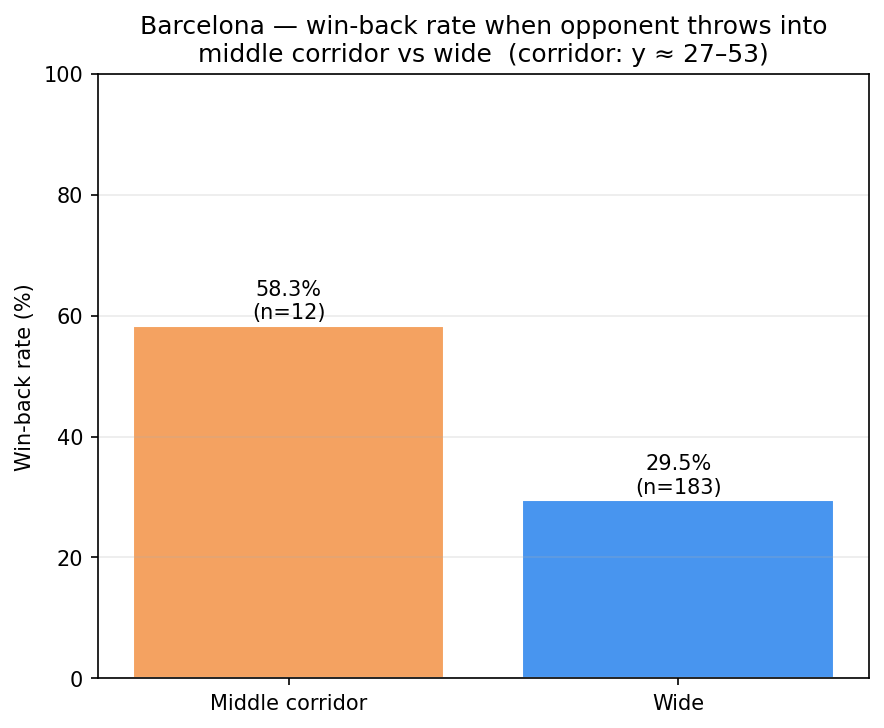
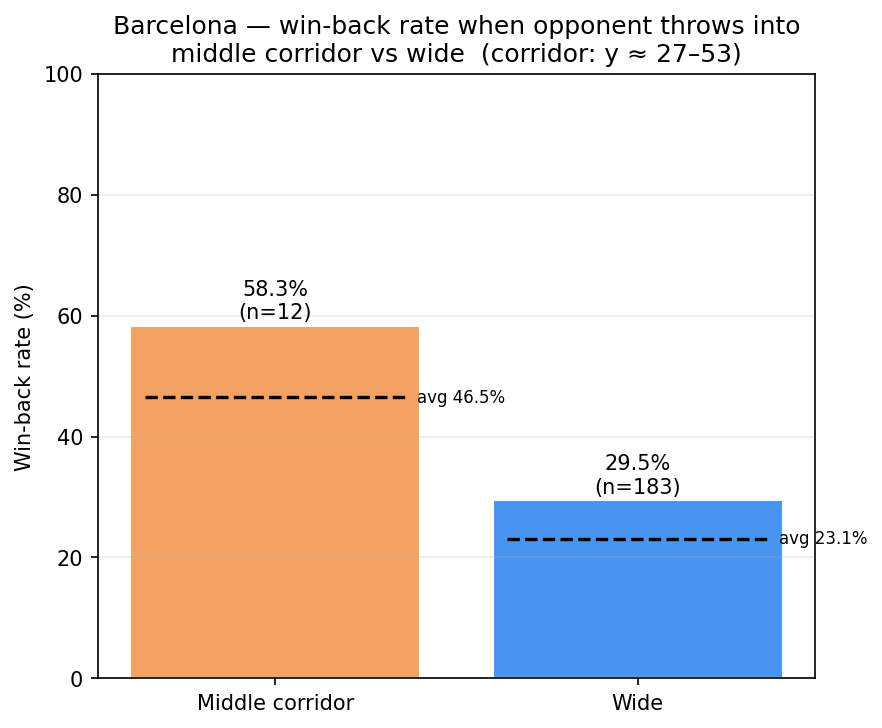
Changed/added some plots on def throw ins

diff --git a/src/throwins/def_throwins/throwins_defense.py b/src/throwins/def_throwins/throwins_defense.py
@@ -153,6 +153,14 @@ def plot_defense_scatter(df: pd.DataFrame, save: bool = True) -> None:
     for ax, zone in zip(axes, ZONE_ORDER):
         zone_df = df[df["zone"] == zone]
 
+        # KDE heatmap of throw-in landing points (background layer)
+        if len(zone_df) >= 5:
+            pitch.kdeplot(
+                zone_df["end_x"], zone_df["end_y"], ax=ax,
+                cmap="Blues", fill=True, alpha=0.45,
+                levels=10, thresh=0.05, zorder=1,
+            )
+
         for _, r in zone_df.iterrows():
             color = POSSESSION_COLORS.get(r["barca_won"], "#adb5bd")
             ax.annotate(
@@ -200,6 +208,243 @@ def plot_defense_scatter(df: pd.DataFrame, save: bool = True) -> None:
     if save:
         THROWINS_ASSETS_DIR.mkdir(parents=True, exist_ok=True)
         out = THROWINS_ASSETS_DIR / "throwins_defense_scatter.png"
+        fig.savefig(out, dpi=150, bbox_inches="tight")
+        print(f"Saved {out}")
+    plt.show()
+
+
+def plot_normalized_landing_heatmap(df: pd.DataFrame, save: bool = True) -> None:
+    """Normalized throw-in landing heatmap with win-back arrows.
+
+    Coordinates relative to throw-in origin:
+      dx > 0  = toward opponent's goal (away from Barcelona's goal)
+      dy > 0  = into the pitch (always, regardless of which touchline)
+    """
+    try:
+        from scipy.ndimage import gaussian_filter
+        _has_scipy = True
+    except ImportError:
+        _has_scipy = False
+
+    import numpy as np
+
+    df = df.dropna(subset=["x", "y", "end_x", "end_y"]).copy()
+    df["dx"] = df["end_x"] - df["x"]
+    df["dy"] = np.where(df["y"] < 40, df["end_y"] - df["y"], df["y"] - df["end_y"])
+
+    _DX     = (-50, 70)
+    _DY     = (-5,  40)
+    _N_BINS = 40
+
+    def _make_heatmap(sub: pd.DataFrame) -> np.ndarray:
+        if len(sub) < 3:
+            return np.zeros((_N_BINS, _N_BINS))
+        xs = np.clip(sub["dx"].values, *_DX)
+        ys = np.clip(sub["dy"].values, *_DY)
+        h, _, _ = np.histogram2d(xs, ys, bins=_N_BINS, range=[_DX, _DY])
+        if _has_scipy:
+            h = gaussian_filter(h, sigma=1.5)
+        h = h / h.max() if h.max() > 0 else h
+        return h.T
+
+    fig, axes = plt.subplots(1, 3, figsize=(18, 6))
+    fig.set_facecolor("white")
+
+    for ax, zone in zip(axes, ZONE_ORDER):
+        zone_df = df[df["zone"] == zone]
+
+        ax.imshow(
+            _make_heatmap(zone_df),
+            origin="lower", extent=[*_DX, *_DY],
+            aspect="auto", cmap="Blues",
+            vmin=0, vmax=1, alpha=0.85,
+        )
+
+        for _, r in zone_df.iterrows():
+            color = POSSESSION_COLORS.get(r["barca_won"], "#adb5bd")
+            ax.annotate(
+                "",
+                xy=(r["dx"], r["dy"]),
+                xytext=(0, 0),
+                arrowprops=dict(
+                    arrowstyle="-|>", color=color,
+                    lw=0.8, alpha=0.55, mutation_scale=8,
+                ),
+                zorder=3,
+            )
+
+        for won, label in [(True, "Barça won ball"), (False, "Opp kept ball")]:
+            sub = zone_df[zone_df["barca_won"] == won]
+            if sub.empty:
+                continue
+            ax.scatter(
+                sub["dx"], sub["dy"],
+                color=POSSESSION_COLORS[won], edgecolors="white",
+                linewidths=0.4, s=35, label=label, zorder=4, alpha=0.8,
+            )
+
+        ax.plot(0, 0, "o", color="cyan", markersize=9, zorder=6)
+        ax.axhline(0, color="white", lw=1.5, alpha=0.7)
+        ax.axvline(0, color="white", lw=1.0, alpha=0.4, linestyle="--")
+
+        n_tot = len(zone_df)
+        n_won = int((zone_df["barca_won"] == True).sum())
+        pct   = f"{n_won / n_tot * 100:.0f}%" if n_tot else "—"
+        ax.set_title(
+            f"{zone} zone  (N={n_tot})  ·  {pct} win-back",
+            fontsize=10, pad=8, color="black",
+        )
+        ax.set_facecolor("#1a1a2e")
+        ax.set_xlim(*_DX)
+        ax.set_ylim(*_DY)
+        ax.set_xlabel(
+            "← toward Barça goal  |  toward Opp goal →\n(StatsBomb units, relative to throw-in)",
+            fontsize=8,
+        )
+        ax.legend(loc="upper right", fontsize=8, framealpha=0.7)
+
+    axes[0].set_ylabel("Into pitch →  (StatsBomb units)", fontsize=8)
+
+    fig.suptitle(
+        "Opponent throw-in landing points — normalised to throw-in origin\n"
+        "Heatmap = landing density  ·  Green = Barça won ball back  "
+        "·  Red = opponent kept possession  ·  Cyan dot = throw-in origin",
+        fontsize=12, y=1.02, color="black",
+    )
+    plt.tight_layout()
+
+    if save:
+        THROWINS_ASSETS_DIR.mkdir(parents=True, exist_ok=True)
+        out = THROWINS_ASSETS_DIR / "throwins_defense_scatter_normalized.png"
+        fig.savefig(out, dpi=150, bbox_inches="tight")
+        print(f"Saved {out}")
+    plt.show()
+
+
+def plot_combined_defense_heatmap(
+    df: pd.DataFrame,
+    positions: dict,
+    save: bool = True,
+) -> None:
+    """Barcelona defensive shape overlaid with opponent throw-in landing points.
+
+    Green heatmap  = Barcelona player density at throw-in moment (SkillCorner, metres).
+    Blue heatmap   = opponent throw-in landing point density (StatsBomb → metres).
+    Arrows         = individual throw-ins coloured by win-back outcome.
+    All coordinates normalised to throw-in origin = (0, 0).
+
+    StatsBomb → metres: x × (105/120), y × (68/80).
+    """
+    try:
+        from scipy.ndimage import gaussian_filter
+        _has_scipy = True
+    except ImportError:
+        _has_scipy = False
+
+    import numpy as np
+
+    _SB_X_TO_M = 105 / 120
+    _SB_Y_TO_M = 68  / 80
+    _DX    = (-50, 50)
+    _DY    = (-2,  70)
+    _BINS  = 40
+
+    def _heatmap(xs, ys):
+        if len(xs) < 3:
+            return np.zeros((_BINS, _BINS))
+        h, _, _ = np.histogram2d(
+            np.clip(xs, *_DX), np.clip(ys, *_DY),
+            bins=_BINS, range=[_DX, _DY],
+        )
+        if _has_scipy:
+            h = gaussian_filter(h, sigma=1.5)
+        h = h / h.max() if h.max() > 0 else h
+        return h.T
+
+    df = df.dropna(subset=["x", "y", "end_x", "end_y"]).copy()
+    df["dx_m"] = (df["end_x"] - df["x"]) * _SB_X_TO_M
+    df["dy_m"] = np.where(
+        df["y"] < 40,
+        (df["end_y"] - df["y"]) * _SB_Y_TO_M,
+        (df["y"] - df["end_y"]) * _SB_Y_TO_M,
+    )
+
+    fig, axes = plt.subplots(1, 3, figsize=(18, 6))
+    fig.set_facecolor("white")
+
+    for ax, zone in zip(axes, ZONE_ORDER):
+        zone_df   = df[df["zone"] == zone]
+        barca_pts = positions.get(zone, {}).get("barca", [])
+
+        # Barcelona player positioning (SkillCorner, already in metres)
+        if barca_pts:
+            bx = np.array([p[0] for p in barca_pts])
+            by = np.array([p[1] for p in barca_pts])
+            ax.imshow(
+                _heatmap(bx, by),
+                origin="lower", extent=[*_DX, *_DY],
+                aspect="auto", cmap="Greens",
+                vmin=0, vmax=1, alpha=0.70, zorder=1,
+            )
+
+        # Individual throw-in arrows
+        for _, r in zone_df.iterrows():
+            color = POSSESSION_COLORS.get(r["barca_won"], "#adb5bd")
+            ax.annotate(
+                "",
+                xy=(r["dx_m"], r["dy_m"]),
+                xytext=(0, 0),
+                arrowprops=dict(
+                    arrowstyle="-|>", color=color,
+                    lw=0.8, alpha=0.50, mutation_scale=8,
+                ),
+                zorder=3,
+            )
+
+        for won, label in [(True, "Barça won ball"), (False, "Opp kept ball")]:
+            sub = zone_df[zone_df["barca_won"] == won]
+            if sub.empty:
+                continue
+            ax.scatter(
+                sub["dx_m"], sub["dy_m"],
+                color=POSSESSION_COLORS[won], edgecolors="white",
+                linewidths=0.4, s=30, label=label, zorder=4, alpha=0.85,
+            )
+
+        ax.plot(0, 0, "o", color="cyan", markersize=9, zorder=6)
+        ax.axhline(0, color="white", lw=1.5, alpha=0.7)
+        ax.axvline(0, color="white", lw=1.0, alpha=0.4, linestyle="--")
+
+        n_tot = len(zone_df)
+        n_won = int((zone_df["barca_won"] == True).sum())
+        n_sk  = positions.get(zone, {}).get("count", 0)
+        pct   = f"{n_won / n_tot * 100:.0f}%" if n_tot else "—"
+        ax.set_title(
+            f"{zone} zone  ·  StatsBomb N={n_tot}  ·  SkillCorner n={n_sk}  ·  {pct} win-back",
+            fontsize=9, pad=8, color="black",
+        )
+        ax.set_facecolor("#1a1a2e")
+        ax.set_xlim(*_DX)
+        ax.set_ylim(*_DY)
+        ax.set_xlabel(
+            "← toward Barça goal  |  toward Opp goal →\n(metres, relative to throw-in origin)",
+            fontsize=8,
+        )
+        ax.legend(loc="upper right", fontsize=8, framealpha=0.7)
+
+    axes[0].set_ylabel("Into pitch →  (metres)", fontsize=8)
+
+    fig.suptitle(
+        "Opponent throw-in landing points vs. Barcelona defensive shape — normalised to throw-in origin\n"
+        "Green = Barcelona player positions (SkillCorner)  ·  "
+        "Arrows = throw-in landing points (StatsBomb)  ·  Cyan dot = throw-in origin",
+        fontsize=11, y=1.02, color="black",
+    )
+    plt.tight_layout()
+
+    if save:
+        THROWINS_ASSETS_DIR.mkdir(parents=True, exist_ok=True)
+        out = THROWINS_ASSETS_DIR / "throwins_defense_combined.png"
         fig.savefig(out, dpi=150, bbox_inches="tight")
         print(f"Saved {out}")
     plt.show()
@@ -286,8 +531,11 @@ def plot_team_comparison(team_stats: dict[str, dict], save: bool = True) -> None
     plt.show()
 
 
-def plot_corridor_winback(df: pd.DataFrame, save: bool = True) -> None:
-    """Bar chart: Barcelona's win-back rate for throws into the middle corridor vs wide."""
+def plot_corridor_winback(df: pd.DataFrame, team_stats: dict[str, dict] | None = None, save: bool = True) -> None:
+    """Bar chart: Barcelona's win-back rate for throws into the middle corridor vs wide.
+
+    If team_stats is provided, a dashed league-average line is drawn on each bar.
+    """
     df = df.dropna(subset=["end_y"]).copy()
     df["in_corridor"] = df["end_y"].apply(_in_middle_corridor)
 
@@ -300,12 +548,37 @@ def plot_corridor_winback(df: pd.DataFrame, save: bool = True) -> None:
             cat_rows.append({"cat": label, "winback_pct": n_won / n * 100, "n": n})
     cp = pd.DataFrame(cat_rows)
 
+    # League averages per category from team_stats
+    league_avgs: dict[str, float] = {}
+    if team_stats:
+        corr_total = sum(d["corridor_total"] for d in team_stats.values())
+        corr_won   = sum(d["corridor_won"]   for d in team_stats.values())
+        wide_total = sum(d["total"] - d["corridor_total"] for d in team_stats.values())
+        wide_won   = sum(d["won"]   - d["corridor_won"]   for d in team_stats.values())
+        if corr_total:
+            league_avgs["Middle corridor"] = corr_won / corr_total * 100
+        if wide_total:
+            league_avgs["Wide"] = wide_won / wide_total * 100
+
     fig, ax = plt.subplots(figsize=(6, 5))
     fig.set_facecolor("white")
     bars = ax.bar(cp["cat"], cp["winback_pct"], color=["#f4a261", "#4895ef"], edgecolor="white")
     for bar, val, n in zip(bars, cp["winback_pct"], cp["n"]):
         ax.text(bar.get_x() + bar.get_width() / 2, val + 0.5,
                 f"{val:.1f}%\n(n={n})", ha="center", va="bottom", fontsize=10)
+
+    # Draw league-average line segment over each bar
+    for bar, row in zip(bars, cp.itertuples()):
+        avg = league_avgs.get(row.cat)
+        if avg is None:
+            continue
+        x_mid = bar.get_x() + bar.get_width() / 2
+        half  = bar.get_width() * 0.45
+        ax.plot([x_mid - half, x_mid + half], [avg, avg],
+                color="black", linestyle="--", linewidth=1.6, zorder=5)
+        ax.text(x_mid + half + 0.03, avg, f"avg {avg:.1f}%",
+                va="center", fontsize=8, color="black")
+
     ax.set_ylabel("Win-back rate (%)")
     ax.set_title(
         "Barcelona — win-back rate when opponent throws into\n"

diff --git a/src/throwins/def_throwins/def_throwins_scatter.py b/src/throwins/def_throwins/def_throwins_scatter.py
@@ -12,7 +12,10 @@ from throwins_defense import (
     ZONE_ORDER,
     collect_data,
     plot_defense_scatter,
+    plot_normalized_landing_heatmap,
+    plot_combined_defense_heatmap,
 )
+from def_throwins_positioning import collect_positions
 
 if __name__ == "__main__":
     barca_df, _ = collect_data()
@@ -29,3 +32,8 @@ if __name__ == "__main__":
         print(f"  {zone:<12} {zn:>4} throw-ins  {zw / zn * 100:.1f}% won back" if zn else f"  {zone:<12}    0")
 
     plot_defense_scatter(barca_df)
+    plot_normalized_landing_heatmap(barca_df)
+
+    print("\nCollecting SkillCorner positioning data ...")
+    positions = collect_positions()
+    plot_combined_defense_heatmap(barca_df, positions)

diff --git a/src/throwins/def_throwins/def_throwins_corridor.py b/src/throwins/def_throwins/def_throwins_corridor.py
@@ -28,5 +28,5 @@ if __name__ == "__main__":
     print(f"\nOpponent throw-ins vs Barcelona (with end location): {n_tot}")
     print(f"Into middle corridor: {n_corr}  ({n_corr / n_tot * 100:.1f}%)" if n_tot else "")
 
-    plot_corridor_winback(barca_df)
+    plot_corridor_winback(barca_df, team_stats=team_stats)
     plot_corridor_team_comparison(team_stats)
